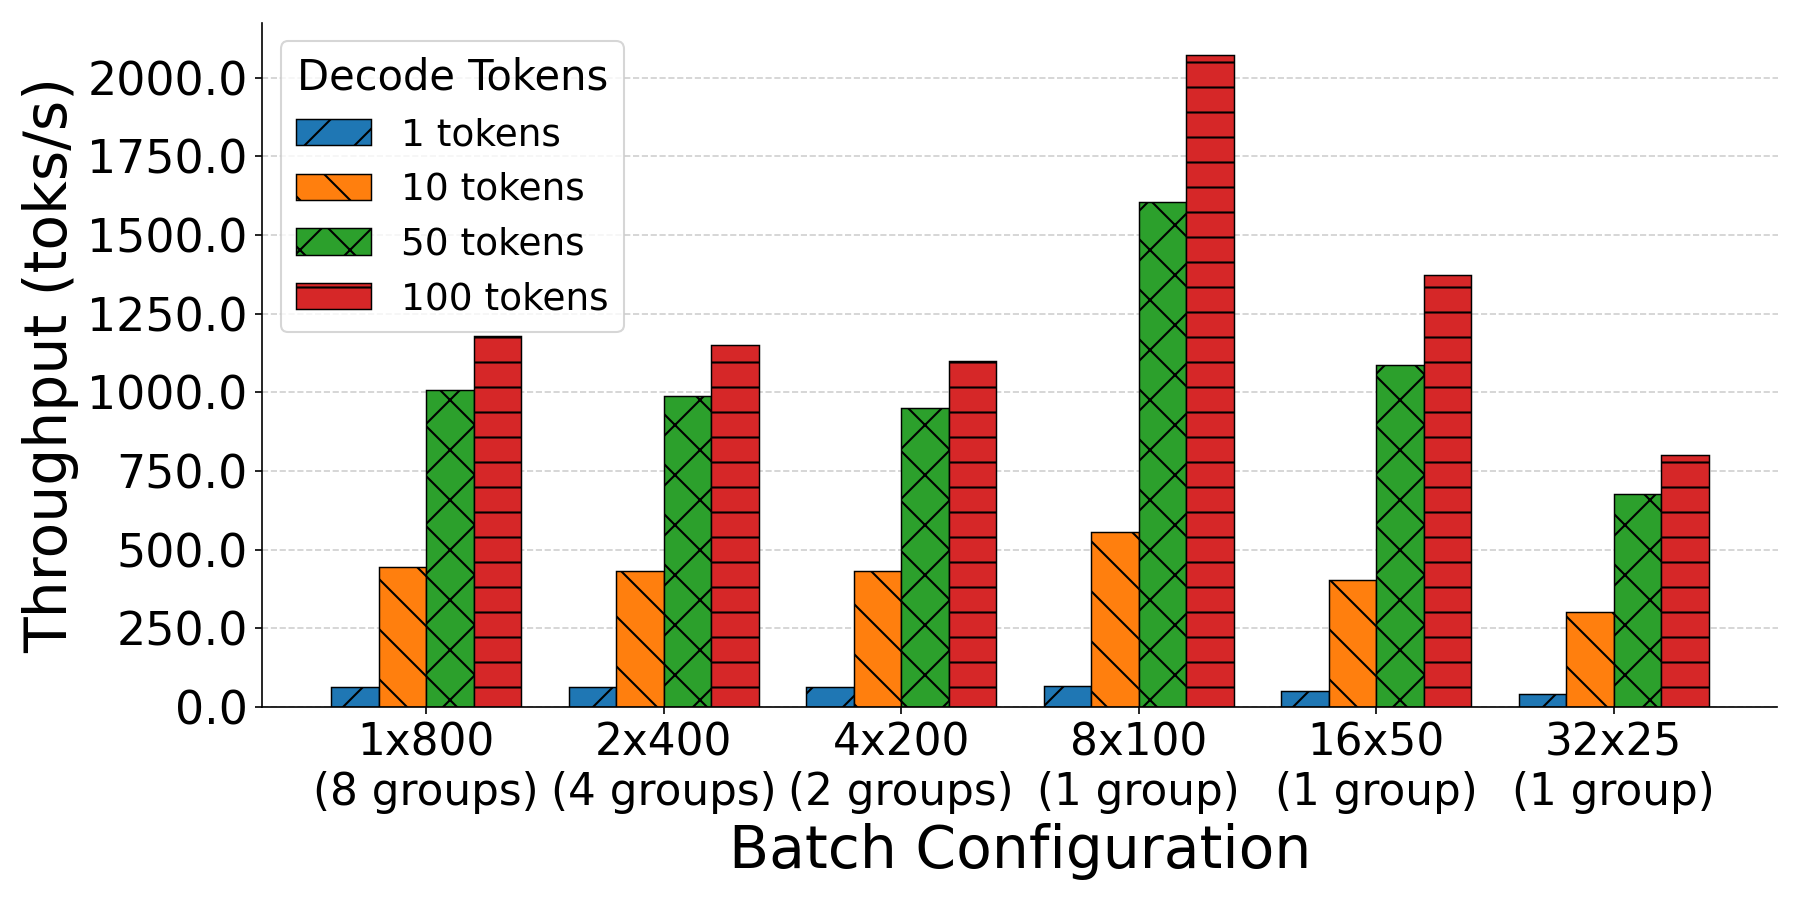
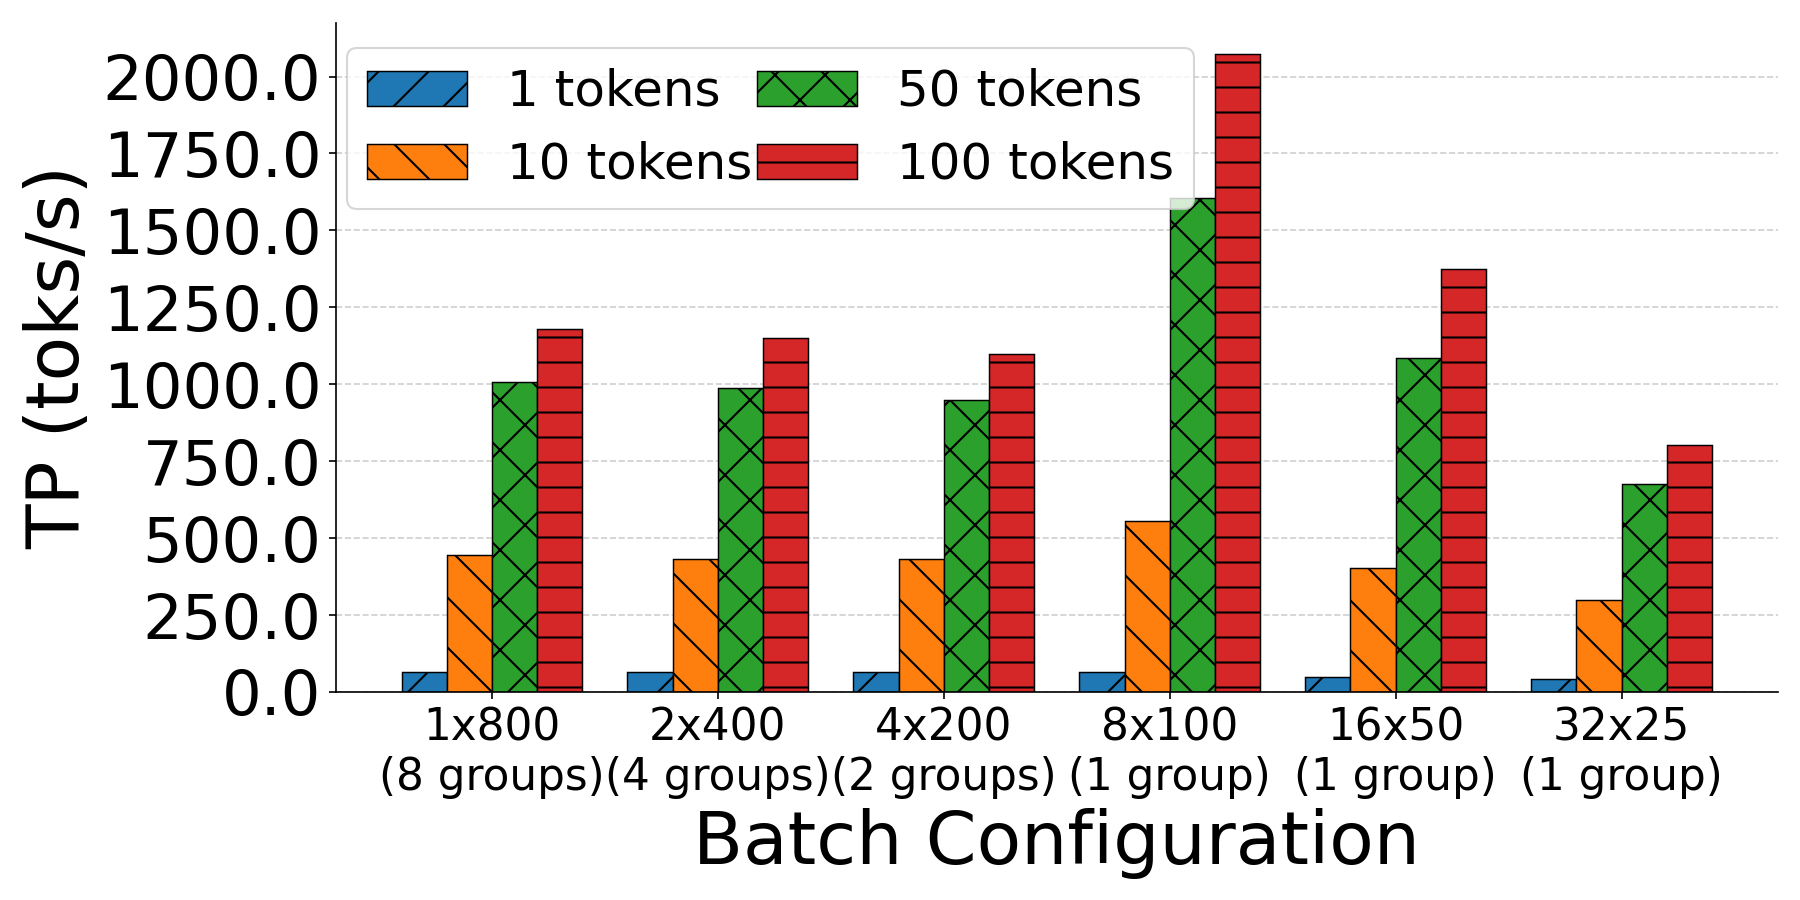
req-plots

Changed region(s): [[0.0, 0.0311, 0.9644, 0.9956]]

diff --git a/code/vllm/homo_hetero/plot_barchart.py b/code/vllm/homo_hetero/plot_barchart.py
@@ -67,16 +67,16 @@ for i, tok in enumerate(tokens):
 
 ax.set_xticks(x)
 ax.set_xticklabels(SETTINGS, fontsize=21)
-ax.set_yticklabels(ax.get_yticks(), fontsize=22)
-ax.set_ylabel("Throughput (toks/s)", fontsize=28)  # 🔹 Updated label
-ax.set_xlabel("Batch Configuration", fontsize=28)
+ax.set_yticklabels(ax.get_yticks(), fontsize=30)
+ax.set_ylabel("TP (toks/s)", fontsize=35)  # 🔹 Updated label
+ax.set_xlabel("Batch Configuration", fontsize=35)
 
 ax.yaxis.grid(True, linestyle="--", alpha=0.6)
 ax.set_axisbelow(True)
 ax.spines["top"].set_visible(False)
 ax.spines["right"].set_visible(False)
 
-ax.legend(title="Decode Tokens", fontsize=18, title_fontsize=20)
+ax.legend(fontsize=24, title_fontsize=20, ncol=2, columnspacing=0.1, loc="upper left", bbox_to_anchor=(-0.01, 1))
 
 plt.tight_layout()
 
